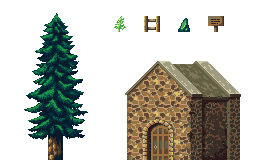
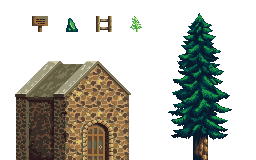
состояние очереди + улучшение зрения юнитов

diff --git a/src/world/action.cpp b/src/world/action.cpp
@@ -7,74 +7,115 @@
 #include "knight.hpp"
 #include "print.hpp"
 
-Action::Action(Renderer *renderer)
+enum baseId
 {
-  _listStart = nullptr;
-  _listEnd = nullptr;
+  LEFT_BASE_ID = 1,
+  RIGHT_BASE_ID = 2
+};
+
+Action::Action(Renderer *renderer)  // TODO: убрать параметр renderer
+{
+  _leftTeam = new std::queue<Unit *>;
+  _rightTeam = new std::queue<Unit *>;
 
   printTrace("Action: строим укрепточки");
-  _baseLeft = new Base(-96, SDL_FLIP_HORIZONTAL);
-  _baseRight = new Base(1088);
+  _leftTeam->push(new Base(-96));
+  _rightTeam->push(new Base(1088, SDL_FLIP_HORIZONTAL));
 
-//  _add(new Knight(300));
-//  _add(new Knight(400));
-  _add(new Knight(500));
-  _add(new Knight(800, SDL_FLIP_HORIZONTAL));
+  _leftTeam->push(new Knight(700));
+//  _leftTeam->push(new Knight(400));
+
+  //  _add(new Knight(300));
+    _rightTeam->push(new Knight(800, SDL_FLIP_HORIZONTAL));
   //  _add(new Knight(1000, SDL_FLIP_HORIZONTAL));
-}
-
-void Action::_add(Unit *unit)
-{
-  if (_listEnd)
-  {
-    _listEnd->next = new node;
-    _listEnd->next->prev = _listEnd;
-    _listEnd->next->next = nullptr;
-    _listEnd = _listEnd->next;
-  }
-  else
-  {
-    _listStart = new node;
-    _listStart->prev = nullptr;
-    _listStart->next = nullptr;
-    _listEnd = _listStart;
-  }
-
-  _listEnd->unit = unit;
 }
 
 void Action::renderer(void)
 {
-  node *cur = _listStart;
+  std::queue<Unit *> *_leftTmp = new std::queue<Unit *>;
+  std::queue<Unit *> *_rightTmp = new std::queue<Unit *>;
 
-  _baseLeft->process();
-  _baseLeft->render();
-
-  _baseRight->process();
-  _baseRight->render();
-
-  while (cur)
+  while (!_leftTeam->empty() || !_rightTeam->empty())
   {
-    Unit *curUnit = cur->unit, *prevUnit = nullptr, *nextUnit = nullptr;
+    Unit *cur = nullptr;
 
-    if (cur->prev) prevUnit = cur->prev->unit;
-    if (cur->next) prevUnit = cur->next->unit;
+    if (!_leftTeam->empty())
+    {
+      if (!_rightTeam->empty())
+      {
+        if (_leftTeam->front()->getId() > _rightTeam->front()->getId())
+        {
+          cur = _rightTeam->front();
 
-    if (prevUnit)
-      if (nextUnit && nextUnit->getFront() > prevUnit->getBack())
-        curUnit->process(nextUnit);
+          if (!_rightTmp->empty() && _rightTmp->back()->getId() != RIGHT_BASE_ID)
+            cur->process(_rightTmp->back());
+          else if (!_leftTmp->empty() && (_leftTeam->empty() || _leftTeam->back()->getId() != LEFT_BASE_ID))
+            cur->process(_leftTmp->back());
+          else
+            cur->process(_leftTeam->front());
+
+          _rightTmp->push(cur);
+          _rightTeam->pop();
+        }
+        else
+        {
+          cur = _leftTeam->front();
+
+          if (!_leftTmp->empty() && _leftTmp->back()->getId() != LEFT_BASE_ID)
+            cur->process(_leftTmp->back());
+          else if (!_rightTmp->empty() && (_rightTeam->empty() || _rightTmp->back()->getId() != RIGHT_BASE_ID))
+            cur->process(_rightTmp->back());
+          else
+            cur->process(_rightTeam->front());
+
+          _leftTmp->push(cur);
+          _leftTeam->pop();
+        }
+      }
       else
-        curUnit->process(prevUnit);
-    else if (nextUnit)
-      curUnit->process(nextUnit);
-    else if (curUnit->getFlip())
-      curUnit->process(_baseLeft);
-    else
-      curUnit->process(_baseRight);
+      {
+        cur = _leftTeam->front();
 
-    cur->unit->render();
-    cur = cur->next;
+        if (!_leftTmp->empty() && _leftTmp->back()->getId() != LEFT_BASE_ID)
+          cur->process(_leftTmp->back());
+        else if (!_rightTmp->empty() && (_rightTeam->empty() || _rightTmp->back()->getId() != RIGHT_BASE_ID))
+          cur->process(_rightTmp->back());
+        else
+          cur->process(_rightTeam->front());
+
+        _leftTmp->push(cur);
+        _leftTeam->pop();
+      }
+    }
+    else
+    {
+      if (!_rightTeam->empty())
+      {
+        cur = _rightTeam->front();
+
+        if (!_rightTmp->empty() && _rightTmp->back()->getId() != RIGHT_BASE_ID)
+          cur->process(_rightTmp->back());
+        else if (!_leftTmp->empty() && (_leftTeam->empty() || _leftTeam->back()->getId() != LEFT_BASE_ID))
+          cur->process(_leftTmp->back());
+        else
+          cur->process(_leftTeam->front());
+
+        _rightTmp->push(cur);
+        _rightTeam->pop();
+      }
+      else
+      {
+        break;
+      }
+    }
+
+    cur->render();
   }
+
+  delete _leftTeam;
+  delete _rightTeam;
+  _leftTeam = _leftTmp;
+  _rightTeam = _rightTmp;
 }
 
 Action::~Action()

diff --git a/src/units/knight.cpp b/src/units/knight.cpp
@@ -43,6 +43,9 @@ typedef enum KnightAttack
   ATTACK_21 = 3104
 } KnightAttack;
 
+int runFrames[8] = {32, 128, 224, 320, 416, 512, 608, 704},
+    idleFrames[15] = {16, 80, 144, 208, 272, 336, 400, 464, 528, 592, 656, 720, 784, 848, 912};
+
 Knight::Knight(int x, SDL_RendererFlip flip) : Unit::Unit()
 {
   _frame = 0;
@@ -52,13 +55,14 @@ Knight::Knight(int x, SDL_RendererFlip flip) : Unit::Unit()
 
   _hp = 100;
   _speed = 4;
-  _backRange = 35;
+  _backRange = 20;
   _frontRange = 30;
 
   if (!textures->key("knightRun")) textures->loadTexture("knightRun", "res/Knight/noBKG_KnightRun_strip.png");
   _texture = textures->key("knightRun");
 
   if (!textures->key("knightAttack")) textures->loadTexture("knightAttack", "res/Knight/noBKG_KnightAttack_strip.png");
+  if (!textures->key("knightIdle")) textures->loadTexture("knightIdle", "res/Knight/noBKG_KnightIdle_strip.png");
 
   setSize(48 * 2, 48 * 2);
   setPosition(x, 441);
@@ -69,21 +73,39 @@ Knight::Knight(int x, SDL_RendererFlip flip) : Unit::Unit()
   _tile->x = RUN_0;
   _tile->y = 0;
 
-  _center = new SDL_Point;
-  _center->x = _geometry->x + _geometry->w / 2 - 5;
-  _center->y = _geometry->y + _geometry->h / 2 - 10;
   _flip = flip;
+  _center = new SDL_Point;
+  _center->y = _geometry->y + _geometry->h / 2 - 10;
+  if (_flip)
+    _center->x = _geometry->x + _geometry->w / 2 + 5;
+  else
+    _center->x = _geometry->x + _geometry->w / 2 - 5;
 }
 
 void Knight::process(Unit *next)
 {
-  Unit::process(next);
+  Unit::process();
   std::cout << next->getFront() << ' ' << getFront() << std::endl;
-  if (next->getBack() == getFront())
+  if (next->getFlip() == getFlip() && next->getBack() <= getFront())
   {
-    printTrace("Встали в очередь...");
+    if (_isRuning)
+    {
+      _isRuning = false;
+      _frameCount = 0;
+      _frame = 0;
+      _texture = textures->key("knightIdle");
+      _tile->x = idleFrames[0];
+    }
+    else if (++_frameCount == _animationSpeed)
+    {
+      if (++_frame == 15) _frame = 0;
+
+      _tile->x = idleFrames[_frame];
+
+      _frameCount = 0;
+    }
   }
-  else if (!_flip && next->getFront() <= getFront() || _flip && next->getFront() >= getFront())
+  else if ((!_flip && next->getFront() <= getFront()) || (_flip && next->getFront() >= getFront()))
   {
     if (_isRuning)
     {
@@ -174,39 +196,16 @@ void Knight::process(Unit *next)
     {
       _isRuning = true;
       _frameCount = 0;
-      _frame = 0;  // TODO: выставить первый кадр бега
+      _frame = 0;
+      _texture = textures->key("knightRun");
+      _tile->x = runFrames[0];
     }
-
-    if (++_frameCount == _animationSpeed)
+    else if (++_frameCount == _animationSpeed)
     {
-      switch (++_frame)
-      {
-        case 1:
-          _tile->x = RUN_1;
-          break;
-        case 2:
-          _tile->x = RUN_2;
-          break;
-        case 3:
-          _tile->x = RUN_3;
-          break;
-        case 4:
-          _tile->x = RUN_4;
-          break;
-        case 5:
-          _tile->x = RUN_5;
-          break;
-        case 6:
-          _tile->x = RUN_6;
-          break;
-        case 7:
-          _tile->x = RUN_7;
-          break;
-        default:
-          _frame = 0;
-          _tile->x = RUN_0;
-          break;
-      }
+      if (++_frame == 8) _frame = 0;
+
+      _tile->x = runFrames[_frame];
+
       _frameCount = 0;
 
       if (_flip)

diff --git a/src/units/unit.hpp b/src/units/unit.hpp
@@ -11,10 +11,12 @@
 class Unit : public RotateEntity
 {
  protected:
-  unsigned short int _hp;          // количество жизней юнита
-  unsigned short int _speed;       // скорость юнита
-  unsigned short int _backRange;   // радиус действия сзади
-  unsigned short int _frontRange;  // радиус действия спереди
+  unsigned int _id;                 // уникальный номер юнита //TODO: Убрать, если не используется
+  unsigned short int _hp;           // количество жизней юнита
+  unsigned short int _speed;        // скорость юнита
+  unsigned short int _backRange;    // радиус действия сзади
+  unsigned short int _frontRange;   // радиус действия спереди
+  static unsigned int _unitsCount;  // количество юнитов за всю игру
 
  public:
   Unit();
@@ -36,6 +38,8 @@ class Unit : public RotateEntity
       Получение лицевой точки юнита
   */
   virtual int getFront(void);
+
+  unsigned short int getId(void);
 
   /*
       Получение урона

diff --git a/src/units/unit.cpp b/src/units/unit.cpp
@@ -4,9 +4,11 @@
 #include "globals.hpp"
 #include "renderer.hpp"
 
-#define VISION 1 // "лучи" зрения юнитов
+#define VISION 1  // "лучи" зрения юнитов
 
-Unit::Unit() : RotateEntity::RotateEntity() {}
+unsigned int Unit::_unitsCount = 0;
+
+Unit::Unit() : RotateEntity::RotateEntity() { _id = ++_unitsCount; }
 
 void Unit::process()
 {
@@ -32,5 +34,7 @@ void Unit::getDamage(unsigned short int damage)
 int Unit::getBack(void) { return 0; }
 
 int Unit::getFront(void) { return 0; }
+
+unsigned short int Unit::getId(void) { return _id; }
 
 Unit::~Unit() {}

diff --git a/src/units/base.cpp b/src/units/base.cpp
@@ -11,7 +11,7 @@ Base::Base(int x, SDL_RendererFlip flip) : Unit::Unit()
 
   if (!textures->key("base")) textures->loadTexture("base", "res/Taiga-Asset-Pack_v2_vnitti/PNG/Props.png");
   _texture = textures->key("base");
-  setTile(112, 48, 144, 128);
+  setTile(0, 48, 144, 128);
   _flip = flip;
 
   setSize(144 * 2, 128 * 2);
@@ -29,7 +29,7 @@ int Base::getBack(void) { return getFront(); }
 int Base::getFront(void)
 {
   if (_flip)
-    return _center->x + _frontRange;
-  else
     return _center->x - _frontRange;
+  else
+    return _center->x + _frontRange;
 }

diff --git a/src/world/action.hpp b/src/world/action.hpp
@@ -1,24 +1,12 @@
+#include <queue>
+
 #include "unit.hpp"
-
-typedef struct node
-{
-  Unit *unit;
-  node *prev;
-  node *next;
-} node;
-
-class Base;
 
 class Action final  // TODO: сделать Layer - шаблоном?
 {
  private:
-  node *_listStart;
-  node *_listEnd;
-
-  Base *_baseLeft;
-  Base *_baseRight;
-
-  void _add(Unit *unit);
+  std::queue<Unit*> *_leftTeam;
+  std::queue<Unit*> *_rightTeam;
 
  public:
   Action(Renderer *renderer);
